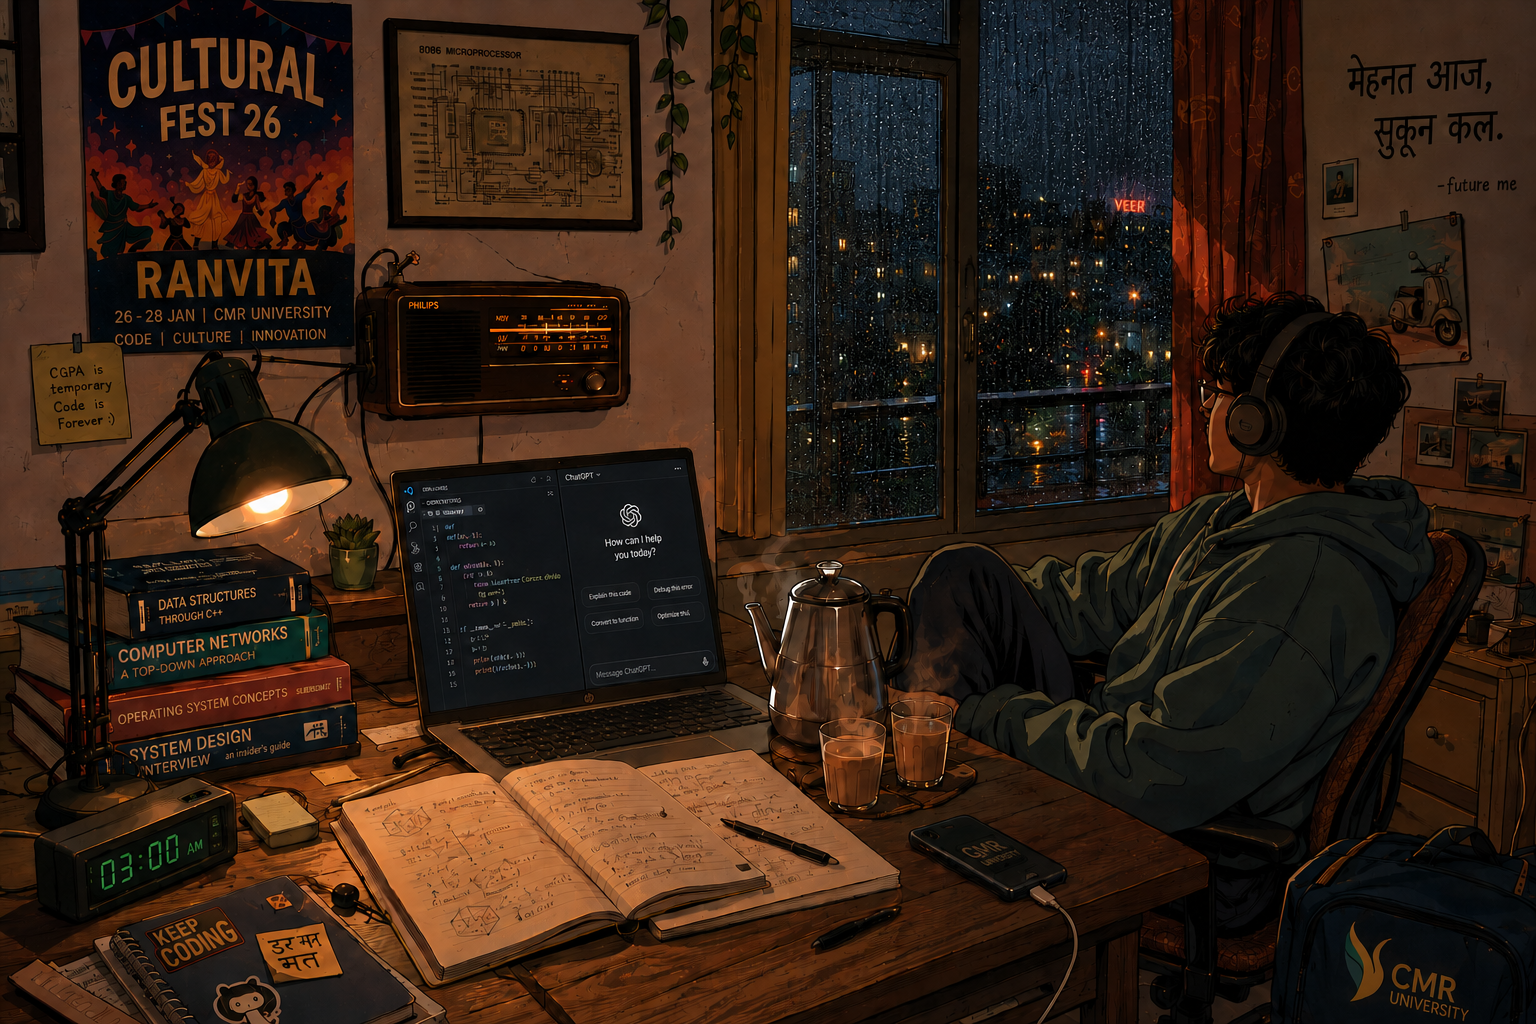
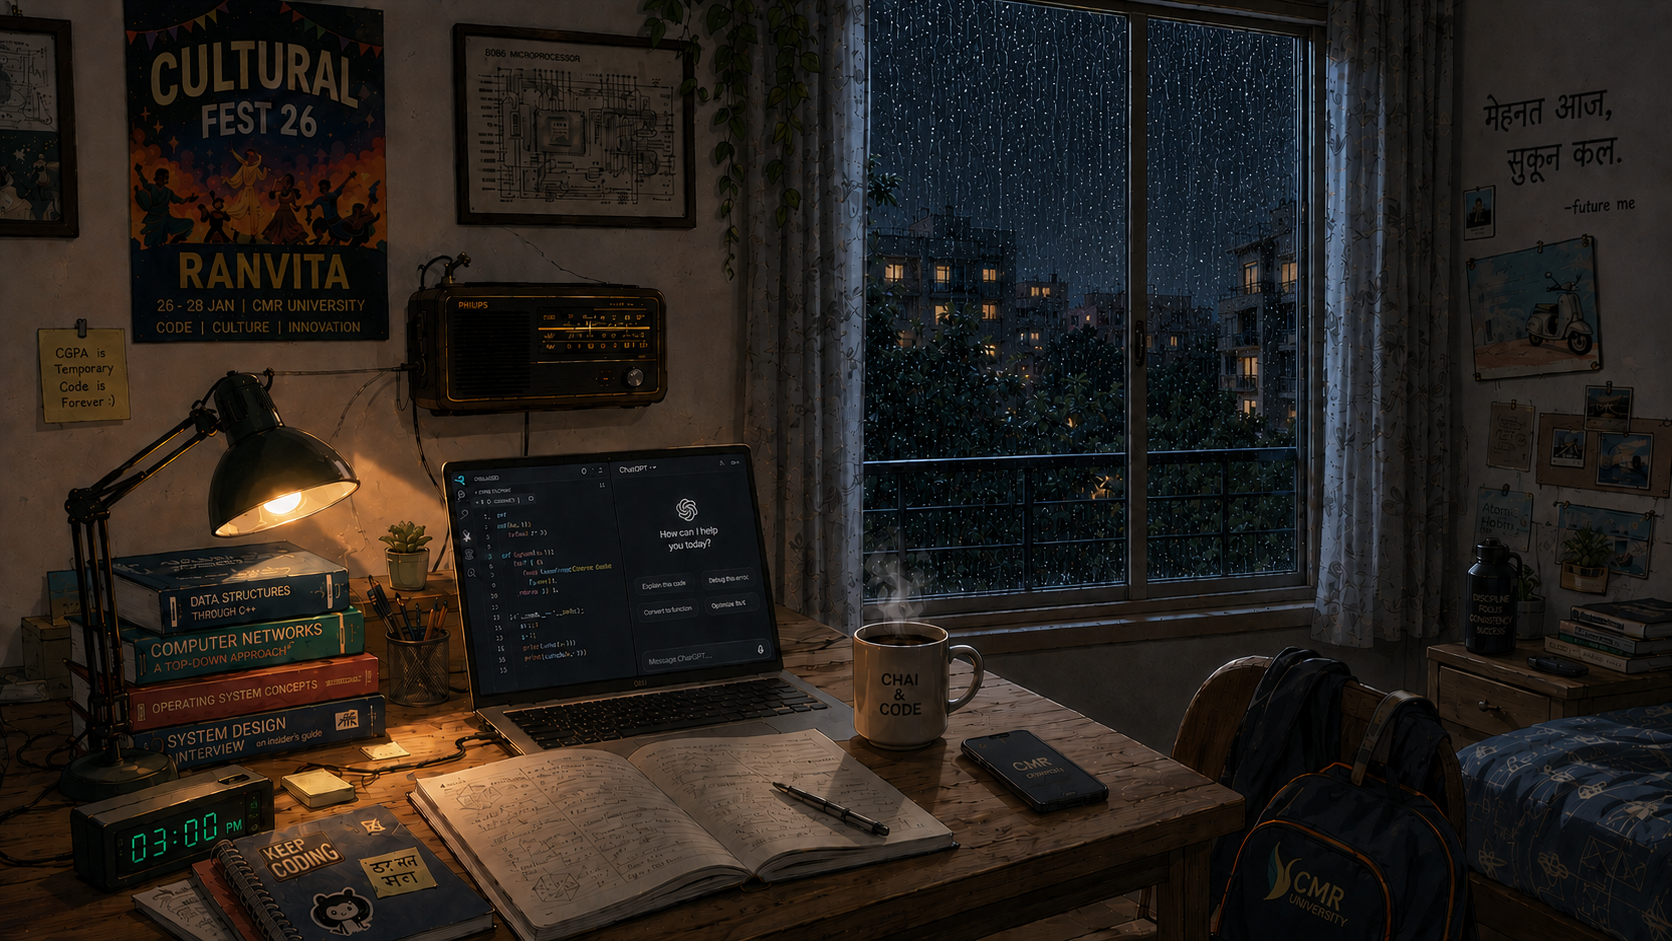
Re-sync weather background images (night, rain, storm updated)

diff --git a/index.html b/index.html
@@ -163,6 +163,6 @@
 
   <script src="https://www.youtube.com/iframe_api"></script>
   <script src="playlists.js?v=20"></script>
-  <script src="script.js?v=23"></script>
+  <script src="script.js?v=24"></script>
 </body>
 </html>
